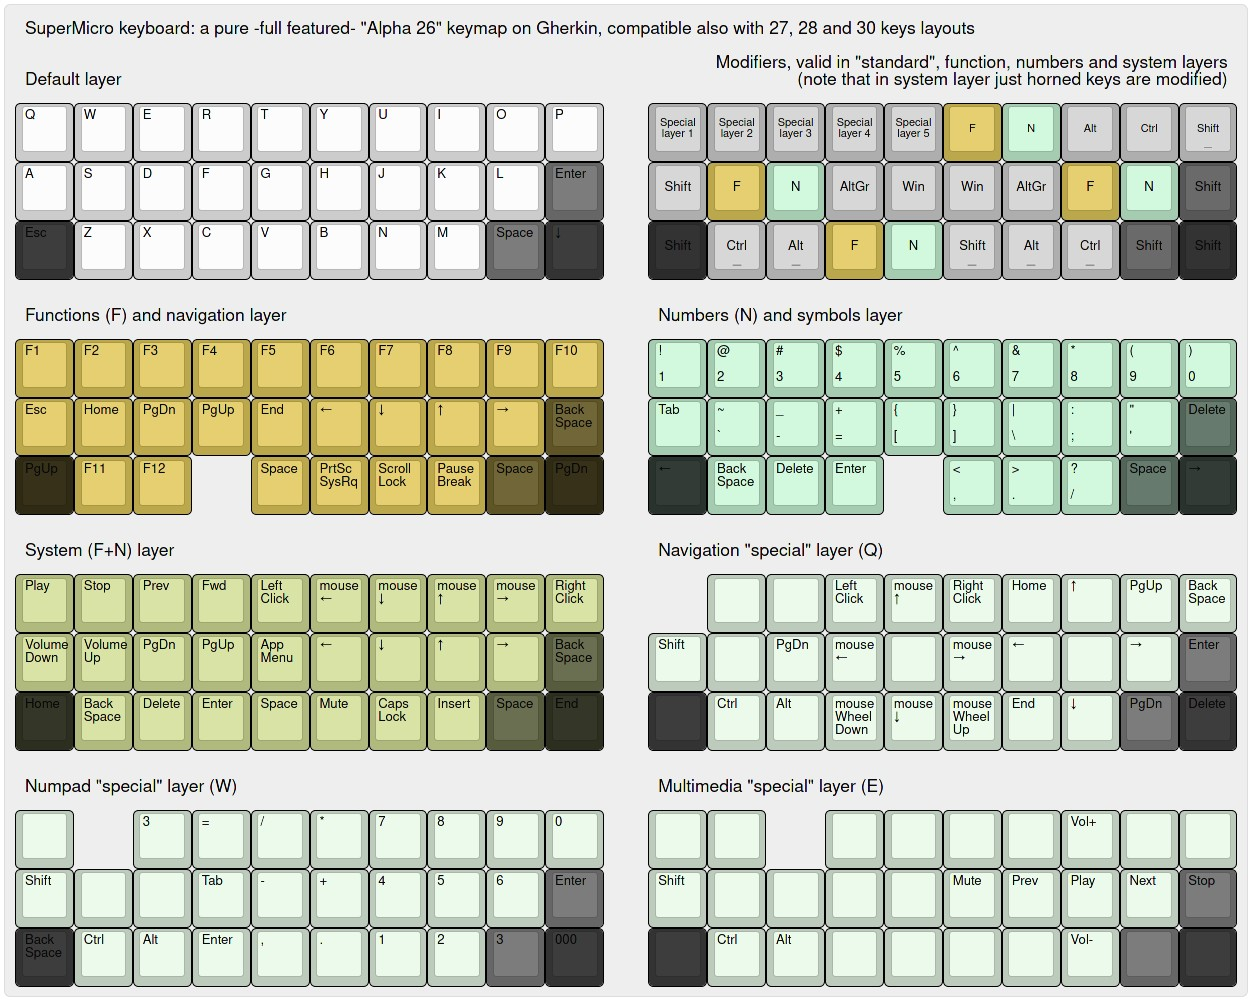
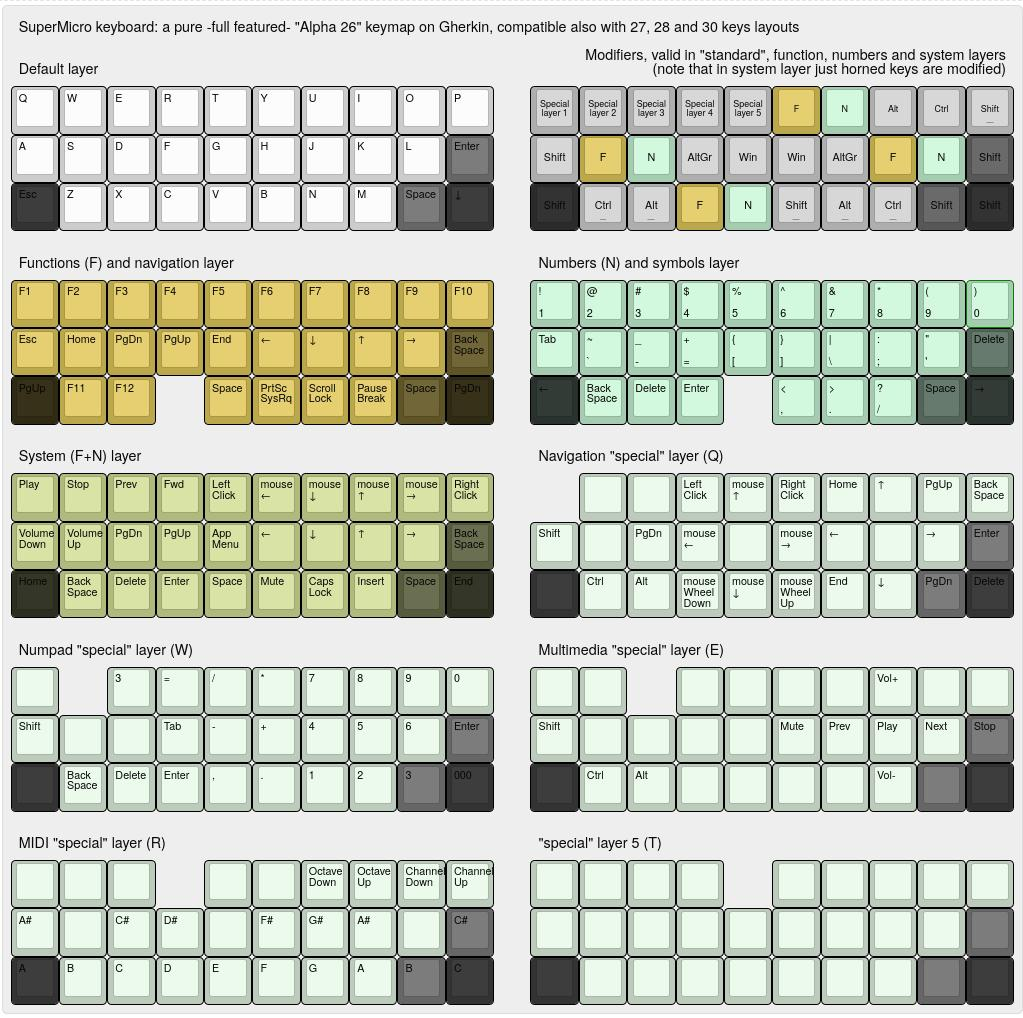
refinements

diff --git a/keyboards/40percentclub/gherkin/keymaps/stevexyz/keymap.c b/keyboards/40percentclub/gherkin/keymaps/stevexyz/keymap.c
@@ -1,4 +1,4 @@
-/* Copyright 2019 Stefano Marago'
+/* Copyright 2019-2021 Stefano Marago'
  *
  * This program is free software: you can redistribute it and/or modify
  * it under the terms of the GNU General Public License as published by
@@ -14,31 +14,41 @@
  * along with this program.  If not, see <http://www.gnu.org/licenses/>.
  */
 
-
 /*
- * The 25% SuperMicro keyboard: a pure - full features - "Alpha 26" keymap on Gherkin, compatible also with 28 and 30 keys layouts
+ * The SuperMicro 25% keyboard: a pure -full features- "Alpha 26" keymap on Gherkin, compatible also with 28 and 30 keys layouts
  * See https://github.com/stevexyz/qmk_firmware/blob/master/keyboards/40percentclub/gherkin/keymaps/stevexyz/readme.md for more information
+ *  ____                     __  __ _                
+ * / ___|_   _ _ __  ___ _ _|  \/  (_) ___ _ __ ___  
+ * \___ \ | | | '_ \/ _ \ '_| |\/| | |/ __| '__/ _ \ 
+ *  ___)  |_| | |_)   __/ | | |  | | | (__| | | (_) |
+ * |____/\__,_| .__/\___|_| |_|  |_|_|\___|_|  \___/ 
+ *   ____ _   |_|        _    _        ___  ___    _
+ *  / ___| |__   ___ _ _| | _(_)_ __  |__ \| __|()//
+ * | |  _| '_ \ / _ \ '_| |/ / | '_ \   _) |__ \ // 
+ * | |_| | | | |  __/ | |   <| | | | | / _/ __) // 
+ *  \____|_| |_|\___|_| |_|\_\_|_| |_||____|___//()
  */
 
 
 #include QMK_KEYBOARD_H
 
 enum layers {
-  LAYER_HOME, // home base layer
-  LAYER_FUNC, // function keys and cursors
-  LAYER_NUMSYM, // numbers and other characters
-  LAYER_SYST, // media, mouse and other system keys
-  LAYER_ARROWPAD,
-  LAYER_NUMPAD,
-  LAYER_MEDIAPAD,
+  // "standard" layers
+  LAYER_HOME,     // home base layer
+  LAYER_FUNC,     // function keys and cursors
+  LAYER_NUMSYM,   // numbers and other characters
+  LAYER_SYST,     // media, mouse and other system keys
+  // "special" layers
+  LAYER_ARROWPAD, // mouse and arrows
+  LAYER_NUMPAD,   // numeric keypad
+  LAYER_MEDIAPAD, // media keys
+  LAYER_MIDI,     // experimental midi layer
+  LAYER_SPECIAL5, // to be personalized (maybe with joystick?)
 };
 
 enum custom_keycodes {
   CK_TRIPLEZERO = SAFE_RANGE,
 };
-
-
-const uint16_t PROGMEM keymaps[][MATRIX_ROWS][MATRIX_COLS] = {
 
 /*
  * LEGEND:
@@ -53,11 +63,13 @@ const uint16_t PROGMEM keymaps[][MATRIX_ROWS][MATRIX_COLS] = {
  *
  */
 
+const uint16_t PROGMEM keymaps[][MATRIX_ROWS][MATRIX_COLS] = {
+
 /* Qwerty Home Layer
  * ,---------------------------------------------------------------------.
  * |      |      |      |      |      |      |      |      |      |      |
  * |   Q  |   W  |   E  |   R  |   T  |   Y  |   U  |   I  |   O  |   P  |
- * | Spec1| Spec2| Spec3| ____ | ____ | FnNav|NumSym|  Alt | Ctrl | Shift|
+ * | Spec1| Spec2| Spec3| Spec4| ____ | FnNav|NumSym|  Alt | Ctrl | Shift|
  * |------+------+------+------+-------------+------+------+------+------|
  * |      |      |      |      |      |      |      |      |      |      |
  * |   A  |   S  |   D  |   F  |   G  |   H  |   J  |   K  |   L  | Enter|
@@ -137,7 +149,7 @@ const uint16_t PROGMEM keymaps[][MATRIX_ROWS][MATRIX_COLS] = {
     KC_HOME, MT(KC_LCTL, KC_BSPC), MT(KC_LALT, KC_DEL), KC_ENT, KC_SPC, MT(MOD_RSFT, KC_MUTE), MT(MOD_LALT, KC_CAPS), MT(MOD_RCTL, KC_INS), KC_SPC, KC_END
   ),
 
- /* ArrowPad (mod su Q)  /------mouse-------\ /-----cursor-------\
+ /* ArrowPad (mod on Q)  /------mouse-------\ /-----cursor-------\
  * ,---------------------------------------------------------------------.
  * |      |      |      |      |      |      |      |      |      |      |
  * |      |      |      |MsBtn1| MsUp |MsBtn2| Home |  Up  | PgUp |Backsp|
@@ -158,7 +170,7 @@ const uint16_t PROGMEM keymaps[][MATRIX_ROWS][MATRIX_COLS] = {
     KC_NO, KC_LCTL, KC_LALT, KC_MS_WH_UP, KC_MS_DOWN, KC_MS_WH_DOWN, KC_END, KC_DOWN, KC_PGDN, KC_DEL 
   ),
 
-/* NumPad (mod su W)
+/* NumPad (mod on W)
  * ,---------------------------------------------------------------------.
  * |      |      |      |      |      |      |      |      |      |      |
  * |      |      |   3  |   =  |   /  |   *  |   7  |   8  |   9  |  0   |
@@ -169,17 +181,17 @@ const uint16_t PROGMEM keymaps[][MATRIX_ROWS][MATRIX_COLS] = {
  * | Shift| ____ | ____ | ____ | ____ | ____ | ____ | ____ | ____ | ____ |
  * '------+------+------+------+------+------|------+------+------+------'
  *        |      |      |      |      |      |      |      |      |       
- *  Backsp|      |      | Enter|   ,  |   .  |   1  |   2  |   3  |  000    
+ *        |BackSp|  Del | Enter|   ,  |   .  |   1  |   2  |   3  |  000    
  *        | Ctrl |  Alt | ____ | ____ | ____ | ____ | ____ | ____ |       
  *        '-------------------------------------------------------'       
  */
   [LAYER_NUMPAD] = LAYOUT_ortho_3x10(
     KC_NO, KC_NO, KC_3, KC_KP_EQUAL, KC_KP_SLASH, KC_KP_ASTERISK, KC_7, KC_8, KC_9, KC_0, 
     KC_LSFT, KC_NO, KC_NO, KC_TAB, KC_KP_MINUS, KC_KP_PLUS, KC_4, KC_5, KC_6, KC_ENT, 
-    KC_BSPC, KC_LCTL, KC_LALT, KC_ENT, KC_COMM, KC_DOT, KC_1, KC_2, KC_3, CK_TRIPLEZERO
+    KC_NO, KC_BSPC, KC_DEL, KC_ENT, KC_COMM, KC_DOT, KC_1, KC_2, KC_3, CK_TRIPLEZERO
   ),
  
- /* MediaPad (mod su E)
+ /* MediaPad (mod on E)
  * ,---------------------------------------------------------------------.
  * |      |      |      |      |      |      |      |      |      |      |
  * |      |      |      |      |      |      |      | Vol+ |      |      |
@@ -200,8 +212,49 @@ const uint16_t PROGMEM keymaps[][MATRIX_ROWS][MATRIX_COLS] = {
     KC_NO, KC_LCTL, KC_LALT, KC_NO, KC_NO, KC_NO, KC_NO, KC_VOLD, KC_NO, KC_NO
   ),  
     
+ /* MIDI (mod on R)
+ * ,---------------------------------------------------------------------.
+ * |      |      |      |      |      |      |      |      |      |      |
+ * |      |      |      |      |TraspD|TraspU| OctDn| OctUp| ChDn | ChUp |
+ * | ____ | ____ | ____ |      | ____ | ____ | ____ | ____ | ____ | ____ |
+ * |------+------+------+------+-------------+------+------+------+------|
+ * |      |      |      |      |      |      |      |      |      |      |
+ * |  A#  |      |  C#  |  D#  |      |  F#  |  G#  |  A#  |      |  C#  |
+ * | ____ | ____ | ____ | ____ | ____ | ____ | ____ | ____ | ____ | ____ |
+ * '------+------+------+------+------+------|------+------+------+------'
+ *        |      |      |      |      |      |      |      |      |        
+ *    A   |  B   |  C   |  D   |  E   |  F   |  G   |  A   |  B   |  C    
+ *        | ____ | ____ | ____ | ____ | ____ | ____ | ____ | ____ |       
+ *        '-------------------------------------------------------'       
+ */
+  [LAYER_MIDI] = LAYOUT_ortho_3x10(
+    KC_NO,KC_NO, KC_NO, KC_NO, MI_TRNSD, MI_TRNSU, MI_OCTD,  MI_OCTU, MI_CHD, MI_CHU,
+    MI_As_1, KC_NO, MI_Cs_2, MI_Ds_2, KC_NO, MI_Fs_2, MI_Gs_2, MI_As_2, KC_NO, MI_Cs_3, 
+    MI_A_1, MI_B_1, MI_C_2, MI_D_2, MI_E_2, MI_F_2, MI_G_2, MI_A_2, MI_B_2, MI_C_3
+  ),  
+    
+ /* To be customized (mod on T)
+ * ,---------------------------------------------------------------------.
+ * |      |      |      |      |      |      |      |      |      |      |
+ * |      |      |      |      |      |      |      |      |      |      |
+ * | ____ | ____ | ____ | ____ |      | ____ | ____ | ____ | ____ | ____ |
+ * |------+------+------+------+-------------+------+------+------+------|
+ * |      |      |      |      |      |      |      |      |      |      |
+ * |      |      |      |      |      |      |      |      |      |      |
+ * | ____ | ____ | ____ | ____ | ____ | ____ | ____ | ____ | ____ | ____ |
+ * '------+------+------+------+------+------|------+------+------+------'
+ *        |      |      |      |      |      |      |      |      |        
+ *        |      |      |      |      |      |      |      |      |       
+ *        | ____ | ____ | ____ | ____ | ____ | ____ | ____ | ____ |       
+ *        '-------------------------------------------------------'       
+ */
+  [LAYER_SPECIAL5] = LAYOUT_ortho_3x10(
+    KC_NO, KC_NO, KC_NO, KC_NO, KC_NO, KC_NO, KC_NO, KC_NO, KC_NO, KC_NO, 
+    KC_NO, KC_NO, KC_NO, KC_NO, KC_NO, KC_NO, KC_NO, KC_NO, KC_NO, KC_NO, 
+    KC_NO, KC_NO, KC_NO, KC_NO, KC_NO, KC_NO, KC_NO, KC_NO, KC_NO, KC_NO
+  ),  
+    
 };
-
 
 void matrix_init_user(void) {
   // eeconfig_init(); // reset keyboard to a standard default state; useful when new releases messup with eeprom values
